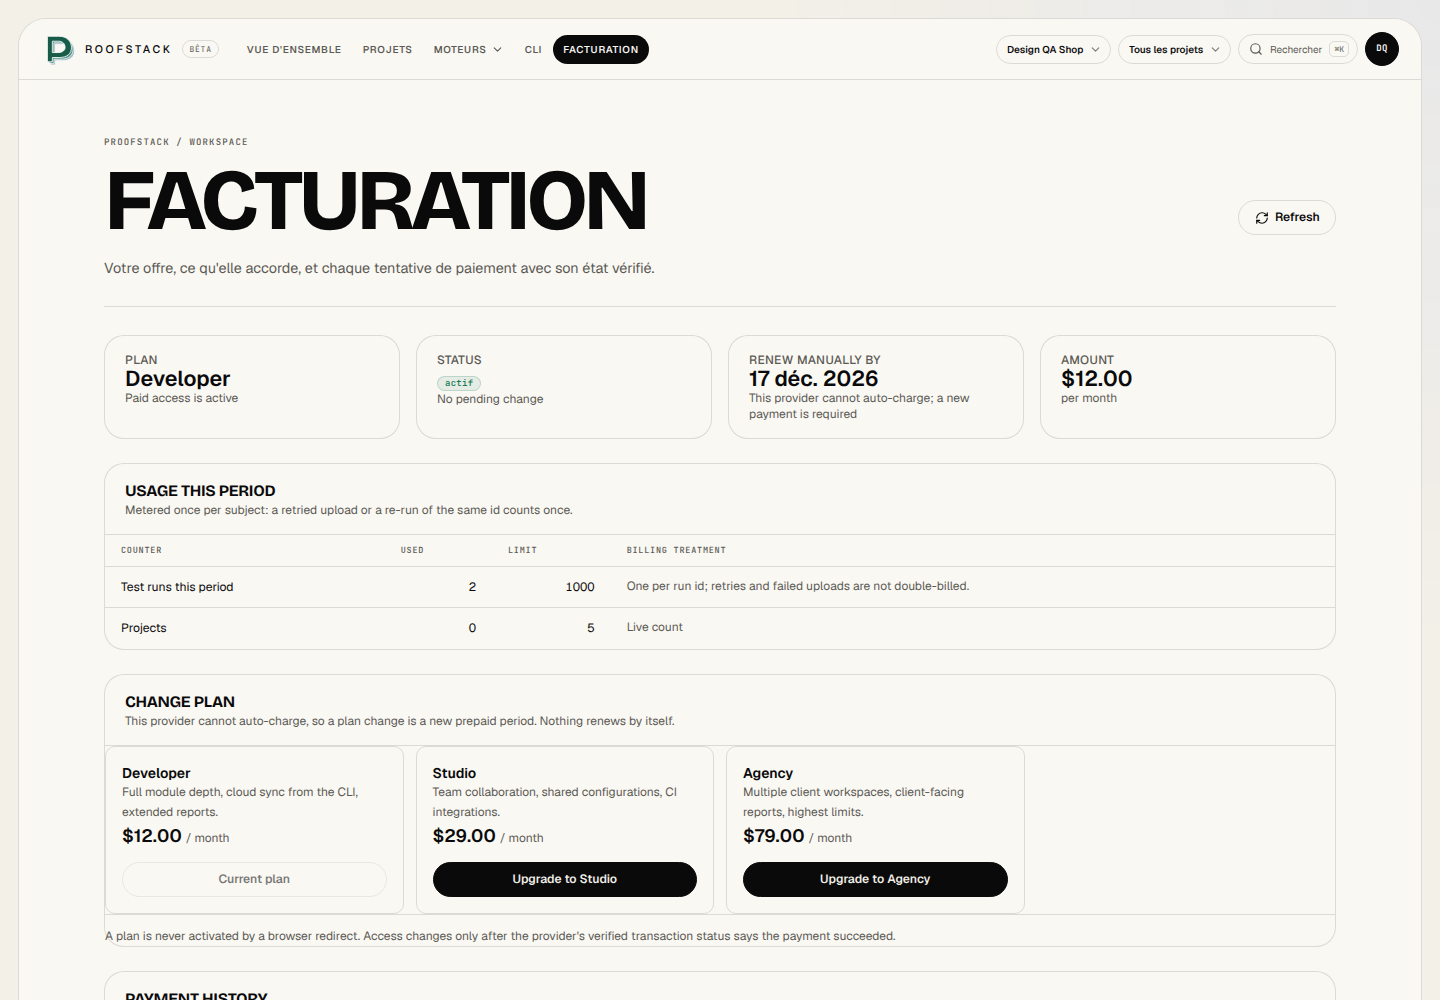
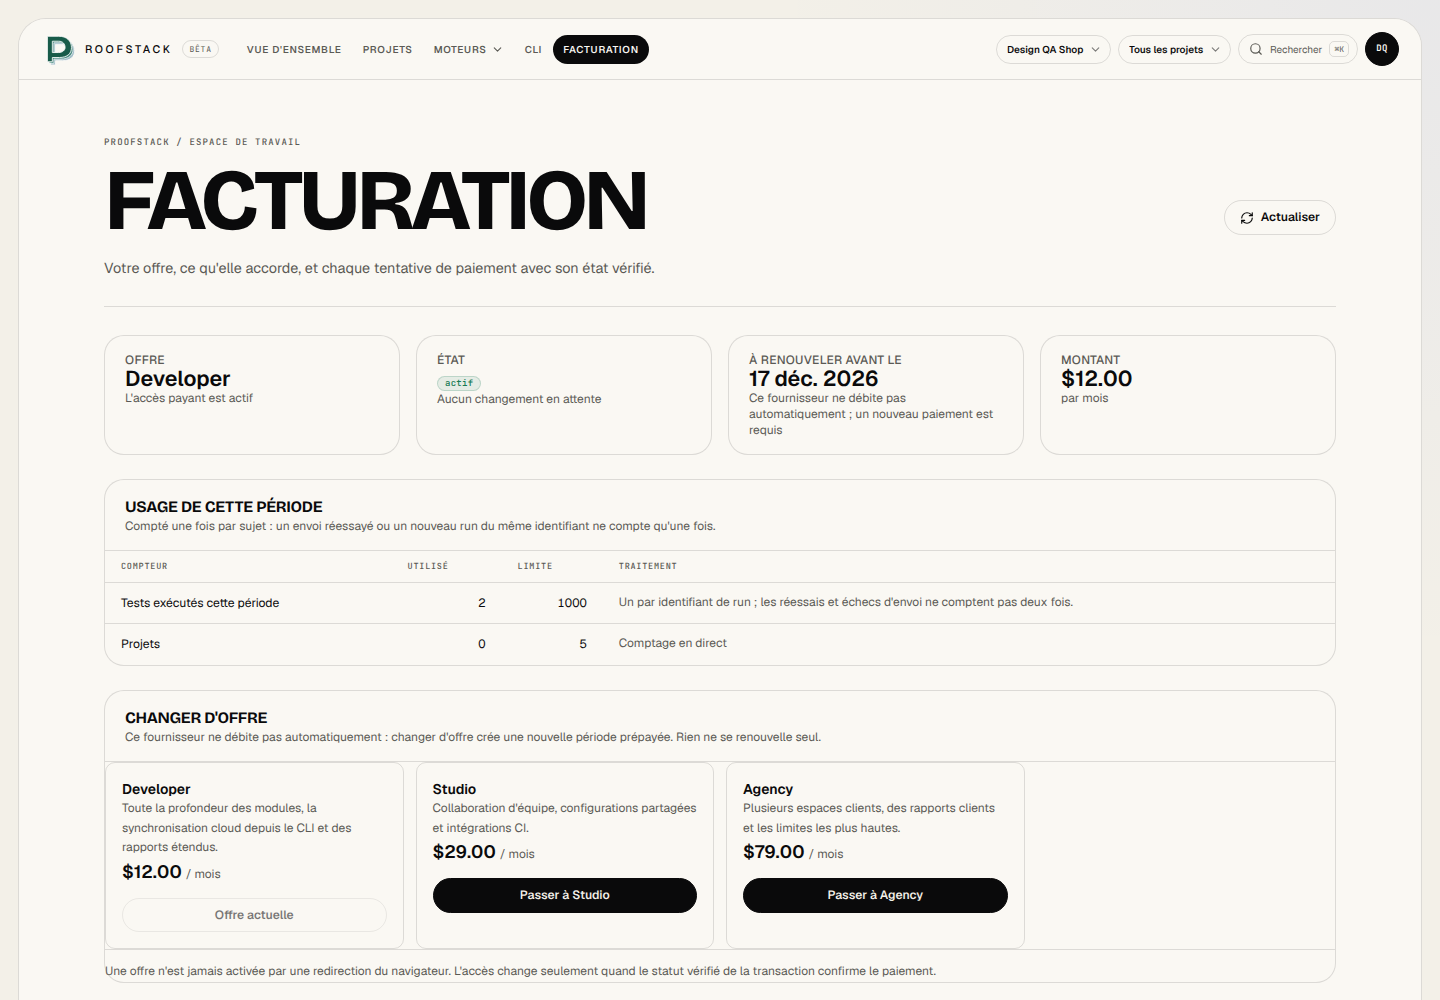
fix(web,cli): finish workspace localization and document the real CLI
Translate the remaining customer workspace labels, restore the command palette and tester wiring, and document the supported proofstack command without implying an npm release.

Generated with Codebuff 🤖

diff --git a/apps/web/src/pages/app/Billing.tsx b/apps/web/src/pages/app/Billing.tsx
@@ -465,12 +465,32 @@ export function Billing() {
             <tbody>
               {data.usage.map((counter) => (
                 <tr key={counter.key}>
-                  <td>{counter.label}</td>
+                  <td>
+                    {fr
+                      ? ((
+                          {
+                            monthly_test_runs: "Tests exécutés cette période",
+                            projects: "Projets",
+                          } as Record<string, string>
+                        )[counter.key] ??
+                        (counter.key.includes("project") || counter.label === "Projects"
+                          ? "Projets"
+                          : counter.label))
+                      : counter.label}
+                  </td>
                   <td className="text-right tabular-nums">{counter.used}</td>
                   <td className="text-right tabular-nums">
                     {counter.limit === -1 ? (fr ? "illimité" : "unlimited") : counter.limit}
                   </td>
-                  <td className="text-xs text-muted">{counter.counted.replaceAll("_", " ")}</td>
+                  <td className="text-xs text-muted">
+                    {fr
+                      ? counter.key === "monthly_test_runs"
+                        ? "Un par identifiant de run ; les réessais et échecs d'envoi ne comptent pas deux fois."
+                        : counter.key.includes("project") || counter.counted === "Live count"
+                          ? "Comptage en direct"
+                          : counter.counted.replaceAll("_", " ")
+                      : counter.counted.replaceAll("_", " ")}
+                  </td>
                 </tr>
               ))}
             </tbody>
@@ -501,7 +521,20 @@ export function Billing() {
               return (
                 <div key={plan.key} className="rounded-[var(--radius)] border border-line p-4">
                   <p className="text-sm font-semibold">{plan.name}</p>
-                  <p className="mt-1 text-xs leading-relaxed text-muted">{plan.description}</p>
+                  <p className="mt-1 text-xs leading-relaxed text-muted">
+                    {fr
+                      ? ((
+                          {
+                            developer:
+                              "Toute la profondeur des modules, la synchronisation cloud depuis le CLI et des rapports étendus.",
+                            studio:
+                              "Collaboration d'équipe, configurations partagées et intégrations CI.",
+                            agency:
+                              "Plusieurs espaces clients, des rapports clients et les limites les plus hautes.",
+                          } as Record<string, string>
+                        )[plan.key] ?? plan.description)
+                      : plan.description}
+                  </p>
                   <p className="mt-3 text-lg font-semibold">
                     {monthly ? formatMinor(monthly.amount.minor, monthly.amount.currency) : "—"}
                     <span className="ml-1 text-xs font-normal text-muted">

diff --git a/apps/web/src/pages/app/Settings.tsx b/apps/web/src/pages/app/Settings.tsx
@@ -232,7 +232,7 @@ export function Settings() {
           <Cannot
             reason={
               fr
-                ? "Le workspace suit votre choix ; le site marketing reste sombre par conception."
+                ? "L'espace de travail suit votre choix ; le site marketing reste sombre par conception."
                 : "The dashboard follows your choice; the marketing site stays dark by design."
             }
           />
@@ -267,7 +267,7 @@ export function Settings() {
           <Cannot
             reason={
               fr
-                ? "Stockée dans ce navigateur. Le shell, l'Overview, les projets, les modules, la facturation et les paramètres suivent ce choix. Les rapports de run gardent la langue de la configuration du projet."
+                ? "Stockée dans ce navigateur. L'espace de travail, la vue d'ensemble, les projets, les modules, le CLI, la facturation et les paramètres suivent ce choix. Les rapports d'exécution gardent la langue de la configuration du projet."
                 : "Stored in this browser. Every customer workspace screen follows this choice. Run reports and CLI output keep the language of the project config."
             }
           />

diff --git a/apps/web/src/layouts/AppLayout.tsx b/apps/web/src/layouts/AppLayout.tsx
@@ -17,7 +17,7 @@ import {
 } from "lucide-react";
 import { type ReactNode, useCallback, useEffect, useMemo, useRef, useState } from "react";
 import { Navigate, NavLink, Outlet, useLocation, useNavigate } from "react-router";
-import { TesterScene } from "../components/app/Testers.js";
+
 import { Mark } from "../components/brand/Logo.js";
 import { useI18n } from "../i18n/index.js";
 import { API_BASE, apiFetch } from "../lib/api.js";
@@ -585,16 +585,19 @@ export function PageHeader({
   title,
   description,
   actions,
-  eyebrow = "PROOFSTACK / workspace",
+  eyebrow,
 }: {
   title: string;
   description?: string;
   actions?: ReactNode;
   eyebrow?: string;
 }) {
+  const { locale } = useI18n();
+  const sectionLabel =
+    eyebrow ?? (locale === "fr" ? "PROOFSTACK / espace de travail" : "PROOFSTACK / workspace");
   return (
     <header className="app-page-head">
-      <p className="app-eyebrow">{eyebrow}</p>
+      <p className="app-eyebrow">{sectionLabel}</p>
       <div className="app-page-head-row">
         <h1 className="app-page-title">{title}</h1>
         {actions ? <div className="app-page-actions">{actions}</div> : null}

diff --git a/apps/web/src/pages/app/Cli.tsx b/apps/web/src/pages/app/Cli.tsx
@@ -1,7 +1,7 @@
 import { ArrowRight, Check, Copy, ExternalLink, KeyRound, Terminal } from "lucide-react";
 import { useCallback, useEffect, useState } from "react";
 import { Link } from "react-router";
-import { Card, Empty, ErrorState, Loading, StatusBadge } from "../../components/app/ui.js";\nimport { EnhancedCard } from "../../components/common/EnhancedCard.js";
+import { Card, Empty, ErrorState, Loading, StatusBadge } from "../../components/app/ui.js";
 import { CliPreview } from "../../components/marketing/CliPreview.js";
 import { useI18n } from "../../i18n/index.js";
 import { PageHeader } from "../../layouts/AppLayout.js";

diff --git a/README.md b/README.md
@@ -63,17 +63,28 @@ pnpm web:dev            # http://localhost:5173
 ```
 
 Create an account at `/signup`, create a project, then create a project token from
-the project page. In your own application repository:
+the project page. From the **PROOFSTACK repository root**:
 
 ```bash
-pnpm cli -- init
-pnpm cli -- doctor
-pnpm cli -- test --module world,flow,exit
-pnpm cli -- sync
+pnpm proofstack                              # open the terminal console
+pnpm proofstack -- doctor                    # verify node, config and module wiring
+pnpm proofstack -- test --module world,flow,exit
+pnpm proofstack -- report text
+pnpm proofstack -- sync
 ```
 
-`@proofstack/cli` is private to this workspace for now; `pnpm cli -- <command>` runs the
-built binary. When it is published, the same commands are `proofstack <command>`.
+`@proofstack/cli` is private to this workspace and is **not published on npm**.
+`pnpm proofstack` runs `packages/cli/dist/index.js` from this checkout; it is the
+supported command today. Do not use `pnpm cli` from an unrelated application
+repository — that would resolve a different package. For another local project, pass
+its directory to the CLI:
+
+```bash
+pnpm proofstack -- --cwd /path/to/your/app init
+pnpm proofstack -- --cwd /path/to/your/app doctor
+```
+
+When the package is published, the same commands become `proofstack <command>`.
 
 ## Terminal console
 
@@ -88,6 +99,34 @@ pnpm proofstack -- status --json             # scriptable account/workspace summ
 pnpm proofstack -- ui --once --screen overview
 pnpm proofstack -- login                     # interactive sign-in
 pnpm proofstack -- logout                    # remove the stored session
+```
+
+Real one-shot rendering of the console (session credentials removed):
+
+```text
+PROOFSTACK · terminal console
+design.qa.20261117@example.com · localhost:8787
+ 1 Overview   2 Projects   3 Runs   4 Billing   5 Admin   6 Help
+──────────────────────────────────────────────────────────────
+Design QA Shop (owner)
+plan       Developer · ACTIVE
+projects   2
+usage      2 / 1000 test runs this period
+
+Projects
+  Storefront         local      world,flow,exi http://localhost:3000
+  Checkout API       staging    flow           https://staging.example.test
+
+Recent runs
+  FAILED Storefront           2026-11-17 02:56 8.3s     6 finding(s)
+  COMPLETED Storefront        2026-11-17 01:34 8.3s     0 finding(s)
+
+Recent failures
+  CRITICAL Duplicate webhook confirms the order twice
+  HIGH Accented surname rejected at checkout
+
+workspace: Design QA Shop
+1-6 screens · ↑/↓ select · Enter open · w workspace · r refresh · ? help · q quit
 ```
 
 `login` stores the HttpOnly session cookie in `~/.config/proofstack/session.json` with

diff --git a/packages/cli/README.md b/packages/cli/README.md
@@ -1,0 +1,51 @@
+# @proofstack/cli
+
+The PROOFSTACK terminal client: project setup, module execution, reports, sync and the
+interactive console.
+
+> This package is private to the monorepo and is not published on npm. From the
+> repository root, use `pnpm proofstack`. In another application directory, pass
+> `--cwd /path/to/app` after the script separator.
+
+## Quick start
+
+```bash
+# From the PROOFSTACK repository root
+pnpm proofstack -- doctor
+pnpm proofstack -- init
+pnpm proofstack -- test --module world,flow,exit
+pnpm proofstack -- report text
+pnpm proofstack -- sync
+```
+
+The local `proofstack.config.ts` currently declares no WORLD HTTP target, no FLOW
+checkout URL and no EXIT export source, so `test` reports every case as `SKIPPED` and
+exits `2`. That is intentional: the CLI does not turn a missing target into a pass.
+`pnpm proofstack -- doctor` lists exactly what must be wired.
+
+## Interactive console
+
+```bash
+pnpm proofstack                 # full-screen console (requires a TTY)
+pnpm proofstack -- login        # sign in; stores a 0600 session cookie
+pnpm proofstack -- logout
+pnpm proofstack -- status --json
+pnpm proofstack -- ui --once --screen overview
+```
+
+The console follows the language of its interface only where translated; module names,
+API states and report formats remain the technical identifiers. Sign-in uses
+`PROOFSTACK_API_URL` (default `https://proofstack-iota.vercel.app`) or `--api`. For CI,
+set `PROOFSTACK_SESSION_COOKIE` to the full cookie header
+`ps_session=<value>`; the bare session value is not enough.
+
+## Exit codes
+
+| Code | Meaning                                     |
+| ---- | ------------------------------------------- |
+| `0`  | all executed cases passed (skips allowed)   |
+| `1`  | at least one product defect                 |
+| `2`  | harness error, invalid config or all skip   |
+| `3`  | run cancelled                               |
+
+A skipped case is not a pass. The report says `NONE` when nothing was verified.
